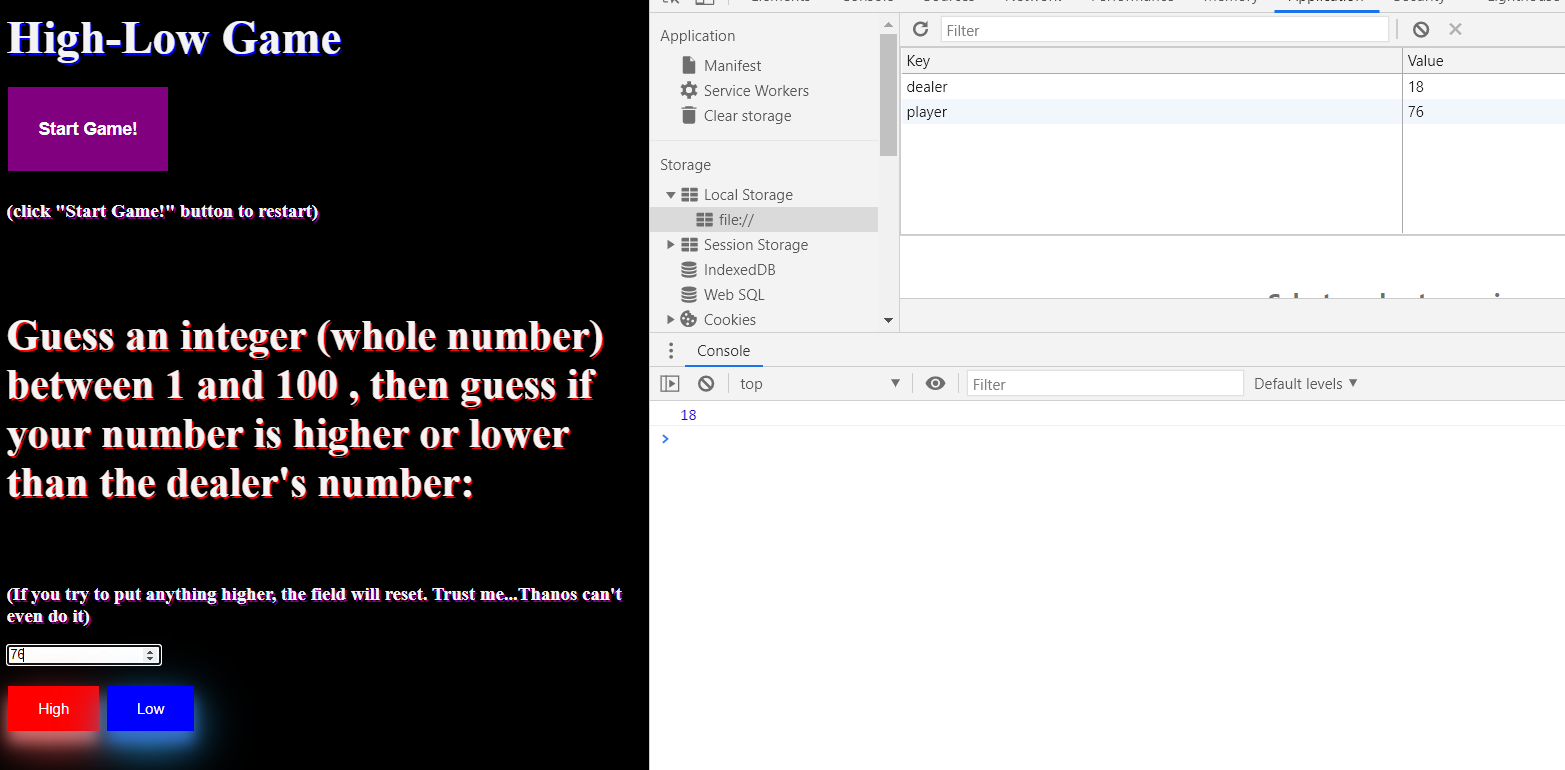
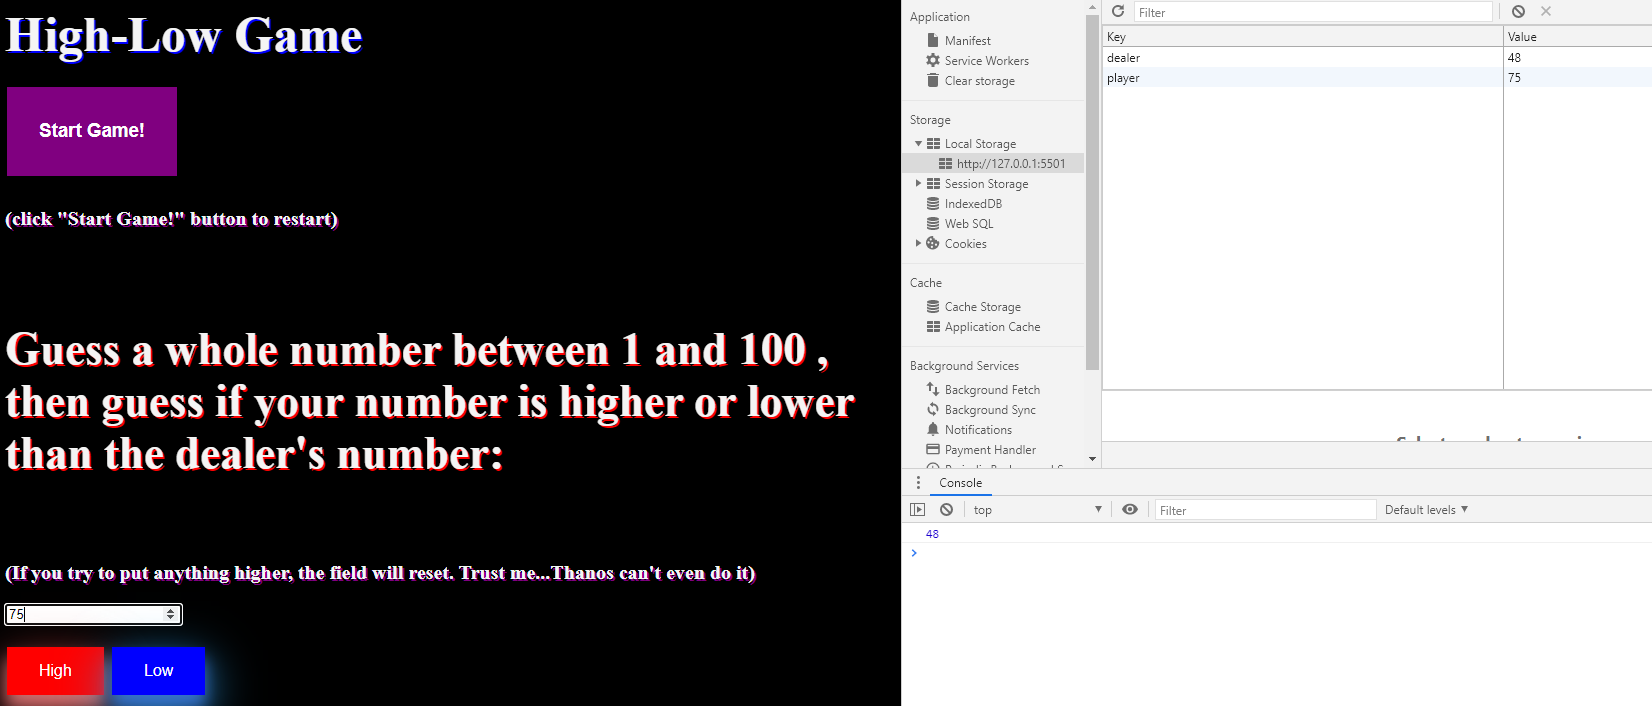
new commit

diff --git a/js/High_Low.js b/js/High_Low.js
@@ -11,9 +11,9 @@ const backdropElement = document.getElementById("backdrop");
 const modalLinkElements = document.querySelectorAll(".info-modal");
 let infoModal;
 
-var dealer;
-var randNum; //Dealer's number
-var pNum; //Player's Number
+let dealer;
+let randNum; //Dealer's number
+let pNum; //Player's Number
 
 function randomInt(min, max) {
   min = Math.ceil(min);
@@ -79,13 +79,13 @@ window.onload = function () {
 };
 
 function animateSequence() {
-  var a = document.getElementsByClassName("sequence");
-  for (var i = 0; i < a.length; i++) {
-    var $this = a[i];
-    var letter = $this.innerHTML;
+  let a = document.getElementsByClassName("sequence");
+  for (let i = 0; i < a.length; i++) {
+    let $this = a[i];
+    let letter = $this.innerHTML;
     letter = letter.trim();
-    var str = "";
-    var delay = 100;
+    let str = "";
+    let delay = 100;
     for (l = 0; l < letter.length; l++) {
       if (letter[l] != " ") {
         str +=
@@ -114,10 +114,8 @@ function presentInfoModal(event) {
   toggleBackdrop();
   infoModal = document.createElement("div");
   infoModal.classList.add("modal");
-  infoModal.innerHTML = `
-    <h2>Sorry, you need to choose a number between 1 and 100, otherwise i wont work</h2>
-   
-  `;
+  infoModal.innerHTML = ``;
+
   const closeButton = document.createElement("button");
   closeButton.addEventListener("click", hideInfoModal);
   closeButton.textContent = "Okay";

diff --git a/hilowgame.html b/hilowgame.html
@@ -16,7 +16,7 @@
 
  <div>
      <form id="game-form">
-    <input name="dealerInput" type="text" id="input-bar" hidden="true" value="" ><h2 class="game-direction sequence diranimation">Guess an integer (whole number) between 1 and 100 , then guess if your number is higher or lower than the dealer's number:</h2><<h4>(If you try to put anything higher, the field will reset. Trust me...Thanos can't even do it)</h5>
+    <input name="dealerInput" type="text" id="input-bar" hidden="true" value="" ><h2 class="game-direction sequence diranimation">Guess a whole number between 1 and 100 , then guess if your number is higher or lower than the dealer's number:</h2><<h4>(If you try to put anything higher, the field will reset. Trust me...Thanos can't even do it)</h5>
     </form>
     <input type="number" id="player-choice" value="" >
 </div>

diff --git a/css/HiLow.css b/css/HiLow.css
@@ -11,7 +11,7 @@ h1 { /*"High-Low*/
   text-shadow: blue 2px 2px;
 }
 
-h2 { /*Guess an integer...*/
+h2 { /*Guess a whole number...*/
   font-size: 45px;
   color: whitesmoke;
   text-shadow: red 2px 2px;

diff --git a/README.md b/README.md
@@ -1,20 +1,15 @@
-# High-Low Game
-
-
-
 ## About
-The High-Low Game is a simple web application (using HTML5, CSS, and JS - no js frameworks were used) that involves a player versus the computer, or the "Dealer". The Dealer chooses a number between 1 and 100 (unbeknownst to the player). The user then chooses their own number between 1 and 100. After choosing their own number, the player then guesses if their number is either higher or lower than the Dealer's number. After the winner or loser is decided, the Dealer's number will be revealed. 
 
+The High-Low Game is a simple web application (using HTML5, CSS, and JS - no js frameworks were used) that involves a player versus the computer, or the "Dealer". The Dealer chooses a number between 1 and 100 (unbeknownst to the player). The user then chooses their own number between 1 and 100. After choosing their own number, the player then guesses if their number is either higher or lower than the Dealer's number. After the winner or loser is decided, the Dealer's number will be revealed.
 
 ## Installation
 
 To run the High-Low Game easily, you should have access to an IDE, I used VS Code and installed the Live Server extension within the IDE. However, it is possible to run the game locally without a server. If you choose to download VS Code, here is the link to get started:
 
-
 [VSCode - https://code.visualstudio.com/download ](https://code.visualstudio.com/download)
 
-
 ## Objectives for the Web Application
+
 - Demonstrate use of localStorage
 - Field validation
 - Random Number Generation
@@ -25,7 +20,9 @@ To run the High-Low Game easily, you should have access to an IDE, I used VS Cod
 ![High-Low Game](img/High-Low.PNG)
 
 ## Usage
+
 Here is a snippet of the function executed when the user clicks on the "High Button" and the player has selected a number
+
 ```script
 function playerHighChoice() {//High Button
   localStorage.getItem("player", pNum)
@@ -37,19 +34,22 @@ function playerHighChoice() {//High Button
   }
 }
 ```
-![High-Low Game Console](img/HighLowConsole.PNG)
-## Special Thanks
-I would like to give a special thanks to Jae Johns. Found this cool animation that I thought would go well with the rest of my CSS. 
 
+![High-Low Game Console](img/HighLowConsole.PNG)
+
+## Special Thanks
+
+I would like to give a special thanks to Jae Johns. Found this cool animation that I thought would go well with the rest of my CSS.
 
 [CSS Animation - https://medium.com/@jaejohns/9-incredibly-gorgeous-text-animations-in-css-f856cd20f81c](https://medium.com/@jaejohns/9-incredibly-gorgeous-text-animations-in-css-f856cd20f81c)
 
-
 ## Contributing
+
 Pull requests are welcome. For major changes, please open an issue first to discuss what you would like to change.
 
 Please make sure to update tests as appropriate.
 
 ## Experience
+
 I am an up and coming web developer. This is my first public project published on GitHub.
-I was interested in learning about localStorage, events, and the DOM. I thought this game would demonstrate some of those features. 
+I was interested in learning about localStorage, events, and the DOM. I thought this game would demonstrate some of those features.
